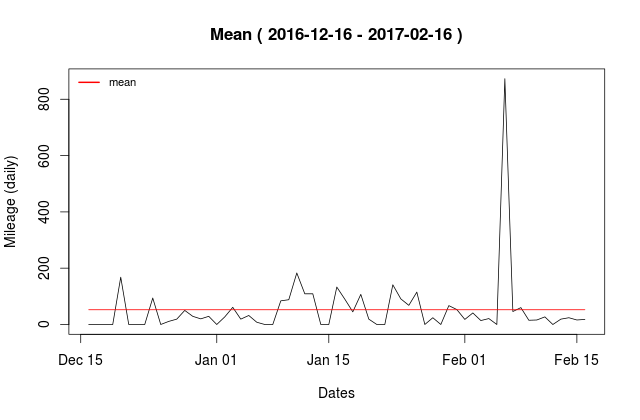
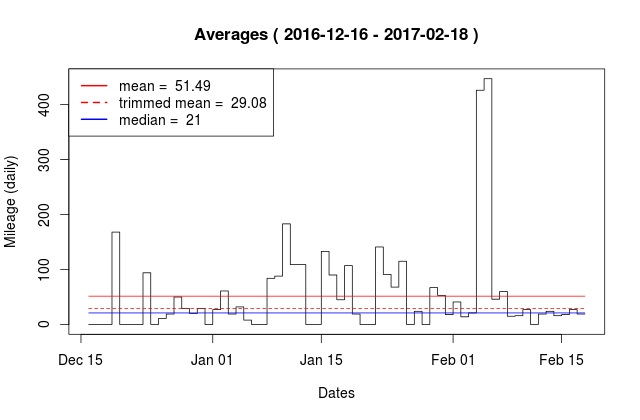
Added weighted mean/quartiles

diff --git a/docs/index.html b/docs/index.html
@@ -22,10 +22,23 @@
 </p>
 <h2>1. Mean, Mode, Mediana</h2>
 <p>
-  Mean value is current milleage devided by days spent (not only logged).
+  Mean value is an average mileage I drive daily, in average. Note that usually extremum values are not included, but I let them matter to average.
+  Trimmed mean is average daily milage without counting 10% of each extremum mileage (e.g. trims 1 highest and one lowest mileage from 10), and you can observe that trimmed mean is closer to median.
+  Median is central tendency measure, which better represents daily mileage and not so driven by extremum values.
 </p>
 <div>
   <img src="mean-01.png"/>
+</div>
+Lets now say I drive on weekdays more for important things, but on weekend I drive more for fun. Lets assume that priority is 85% / 15%.
+Weighted average in this case will show what average milleage I spend for important things (greater than common average, as weekend drive is usualy not intensive).
+<div>
+  <img src="mean-02.png"/>
+</div>
+<p>
+  Quartiles shows how the mileage is distributed above and below the median.
+</p>
+<div>
+  <img src="qualtiles-01.png"/>
 </div>
 </body>
 </html>
